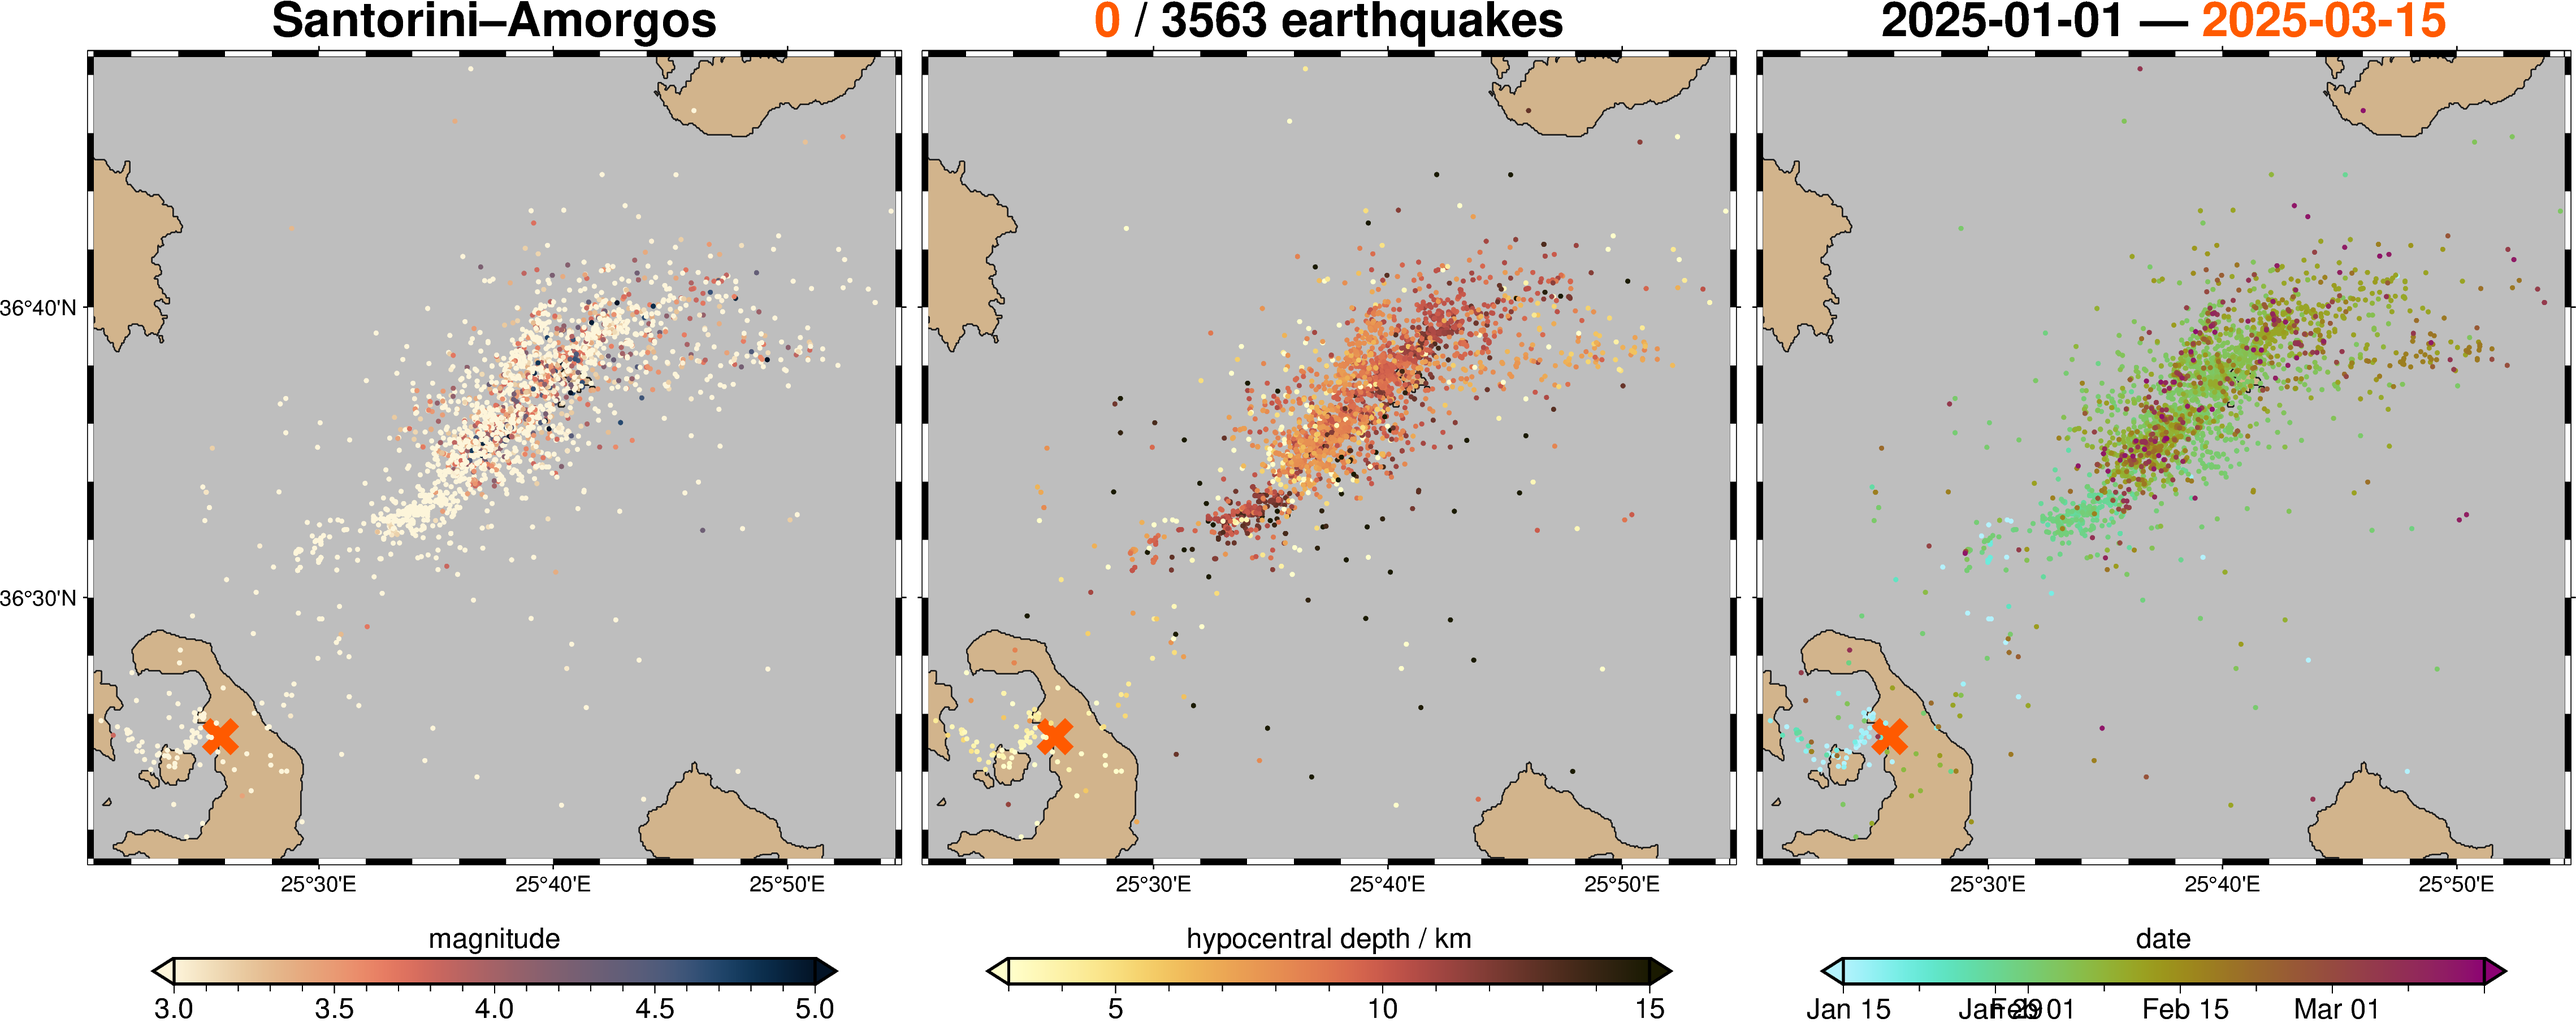
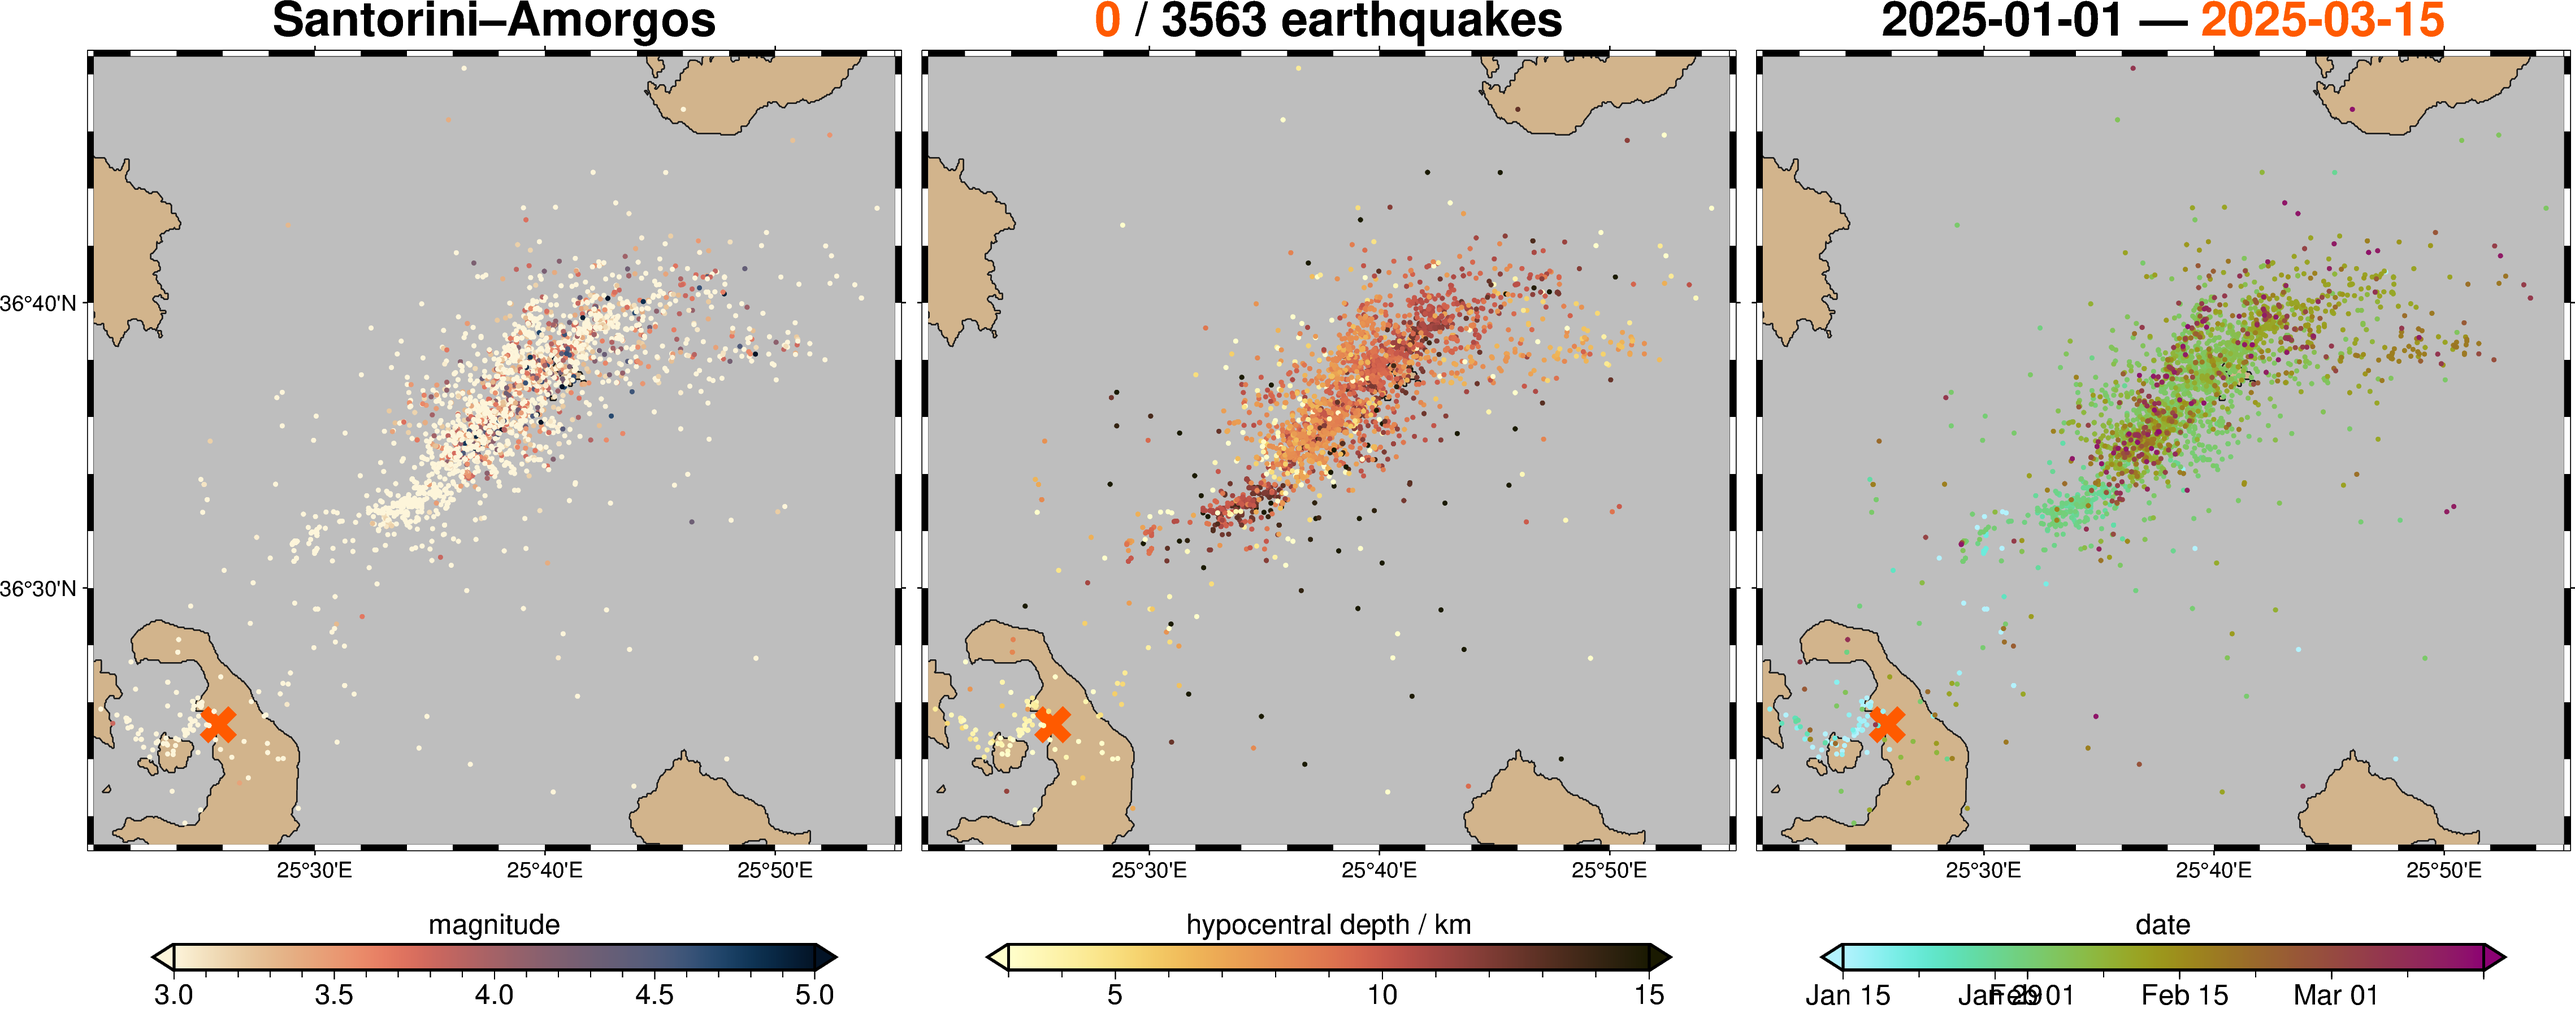
Update images and GIF

diff --git a/004_earthquakes_eruptions/11_santorini_earthquake.py b/004_earthquakes_eruptions/11_santorini_earthquake.py
@@ -51,9 +51,9 @@ color_land = "tan"
 
 # Plotting region
 min_lon = 25.34
-max_lon = 25.91
+max_lon = 25.92
 min_lat = 36.35
-max_lat = 36.82
+max_lat = 36.81
 region = [min_lon, max_lon, min_lat, max_lat]
 
 
@@ -136,7 +136,6 @@ for i_day, day in enumerate(rrule(DAILY, dtstart=start_date_plot, until=end_date
         fig.shift_origin(xshift="w+0.5c")
 
     fig.show()
-
     fig_name = "11_santorini_earthquake_" + str(day).split(" ")[0]
     for ext in ["png"]:  # "pdf", "eps"
         fig.savefig(fname=f"{path_out}/santorini/{fig_name}.{ext}")
@@ -162,3 +161,7 @@ for i_day, x_day in enumerate(x_days):
     fig.text(text=N_eqs_days[i_day], x=x_day, y=N_eqs_days[i_day] + 8)
 
 fig.show()
+fig_name = "11_santorini_earthquakes_per_day"
+for ext in ["png"]:  # "pdf", "eps"
+    fig.savefig(fname=f"{path_out}/{fig_name}.{ext}")
+print(fig_name)
